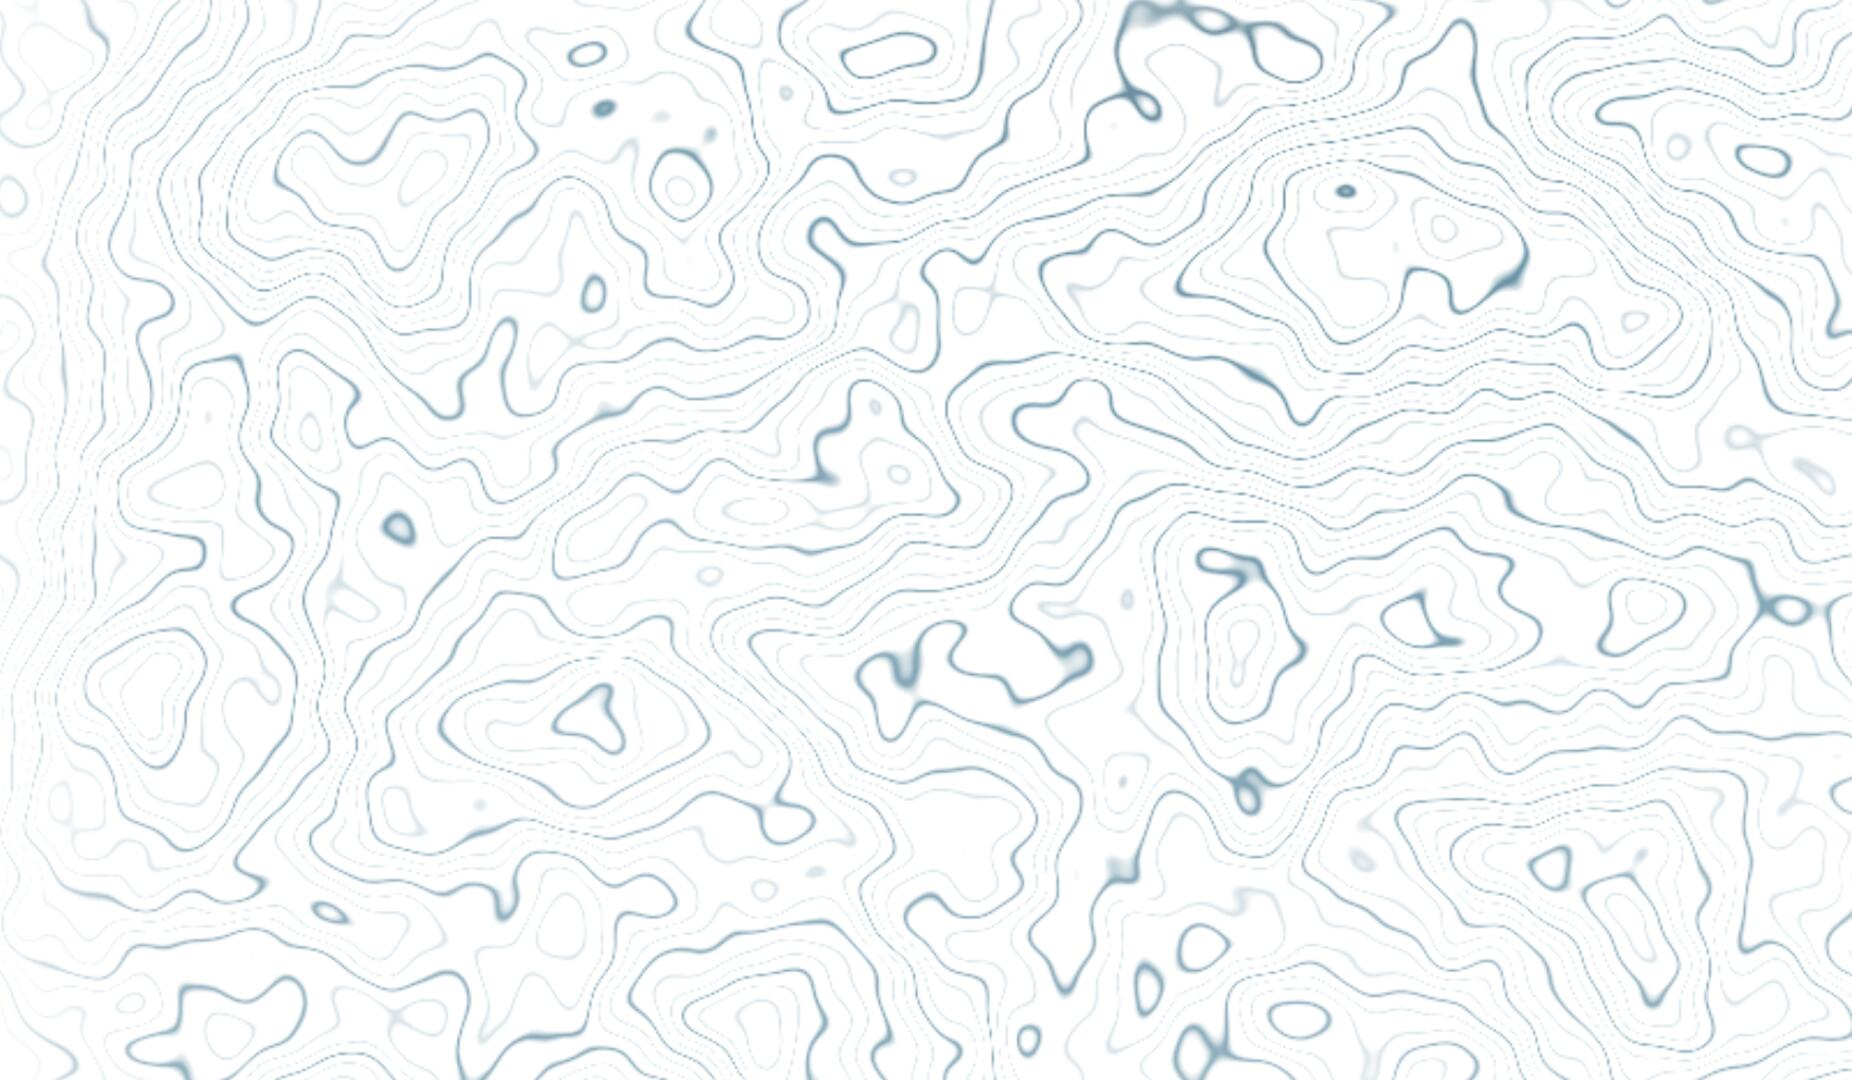
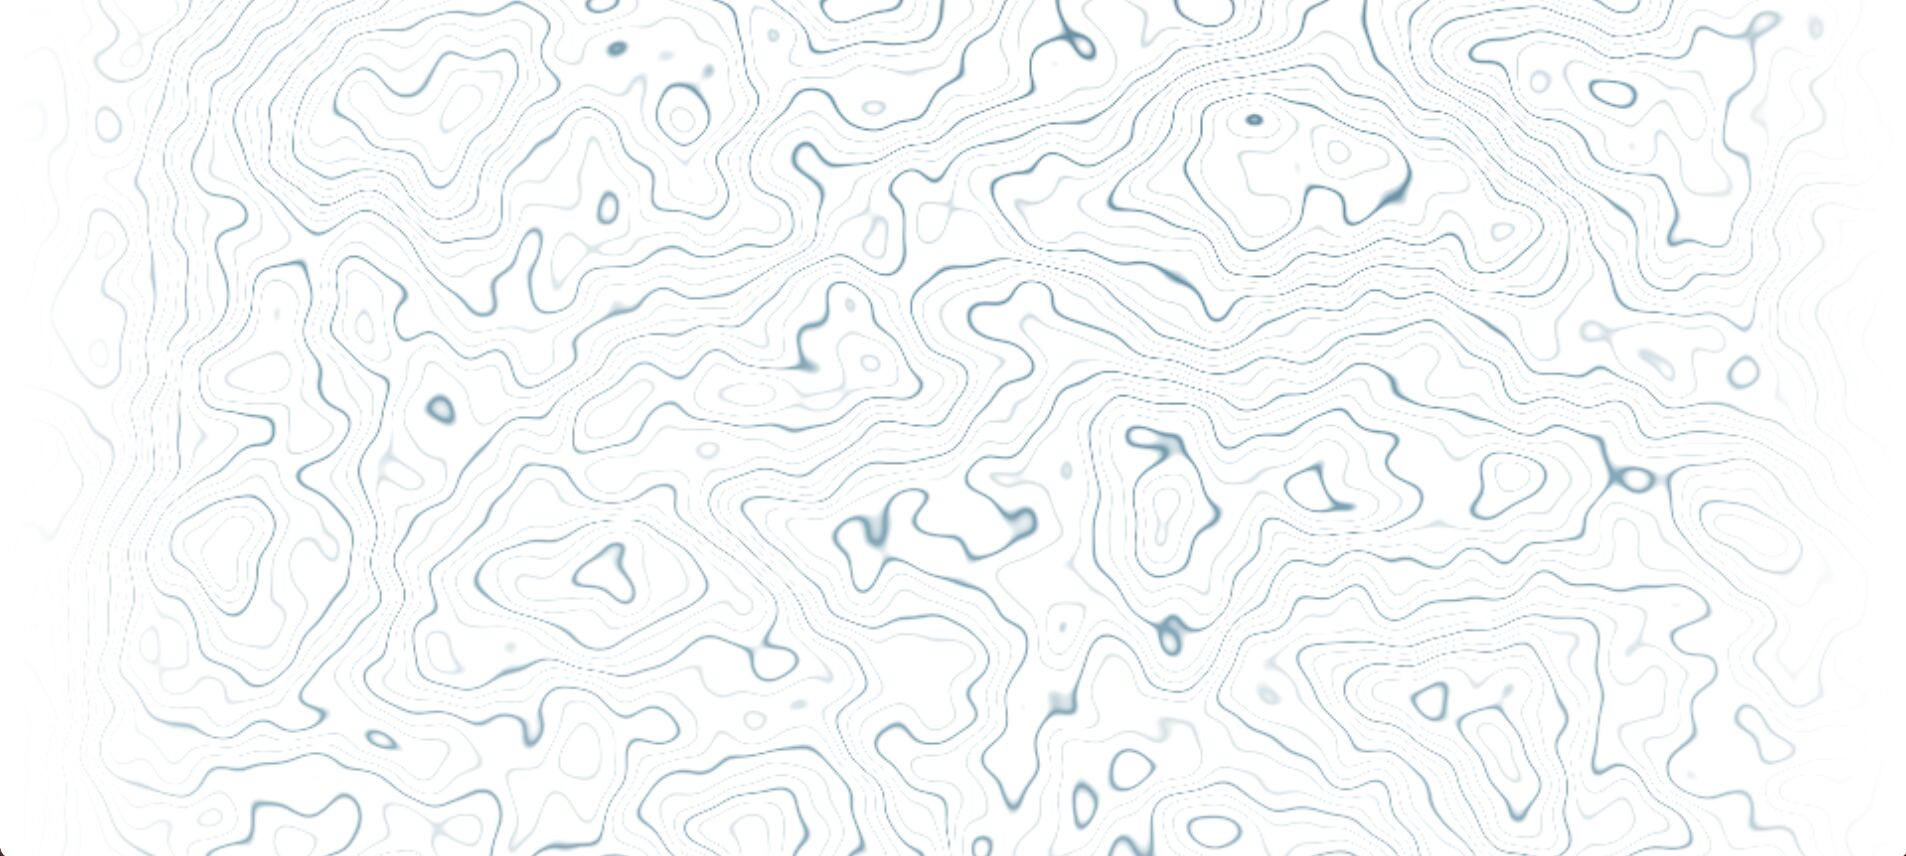
Improve preloader animation and image centering for smoother loading
Adjust CSS animations and positioning for the preloader image to center it at 55% and speed up the pan effect, while retaining the blur and ensuring the image fits correctly.

Replit-Commit-Author: Agent
Replit-Commit-Session-Id: 6c61ff20-731f-4755-8f81-6e30eacf3242
Replit-Commit-Checkpoint-Type: full_checkpoint
Replit-Commit-Event-Id: 511e15a5-dda3-4f3e-98aa-4e9e18777e55
Replit-Commit-Screenshot-Url: https://storage.googleapis.com/screenshot-production-us-central1/a16074ad-7a06-4d7a-b66a-61c1f07df5fb/6c61ff20-731f-4755-8f81-6e30eacf3242/YyJvNgS
Replit-Helium-Checkpoint-Created: true

diff --git a/client/index.html b/client/index.html
@@ -39,8 +39,8 @@
         scrollbar-gutter: auto !important;
       }
       @keyframes preloaderPan {
-        0%   { transform: translateX(0px); }
-        100% { transform: translateX(-60px); }
+        0%   { transform: translateX(0%); }
+        100% { transform: translateX(-5%); }
       }
       #app-preloader {
         position: fixed;
@@ -58,12 +58,14 @@
         display: block;
         position: absolute;
         top: 0;
-        left: 0;
-        width: calc(100% + 60px);
         height: 100%;
+        width: auto;
+        min-width: 110%;
+        left: 50%;
+        transform: translateX(-55%);
         object-fit: cover;
         filter: blur(3px);
-        animation: preloaderPan 14s linear infinite alternate;
+        animation: preloaderPan 8s linear infinite alternate;
         will-change: transform;
       }
     </style>
